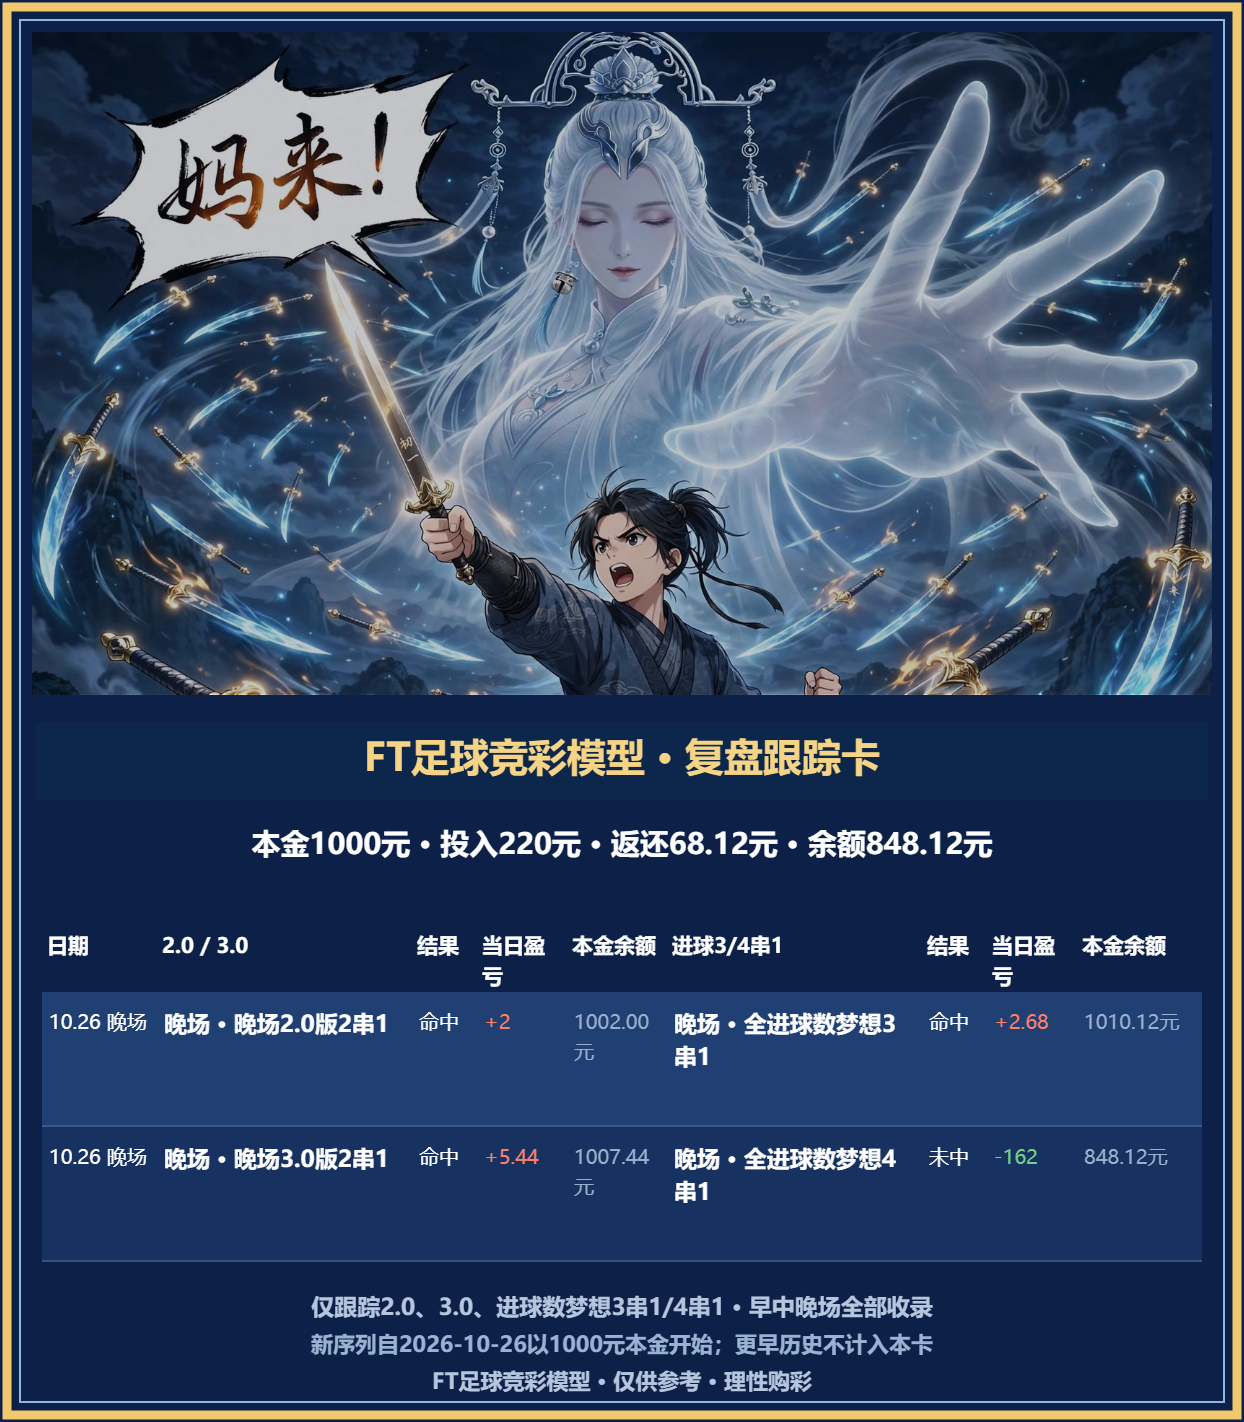
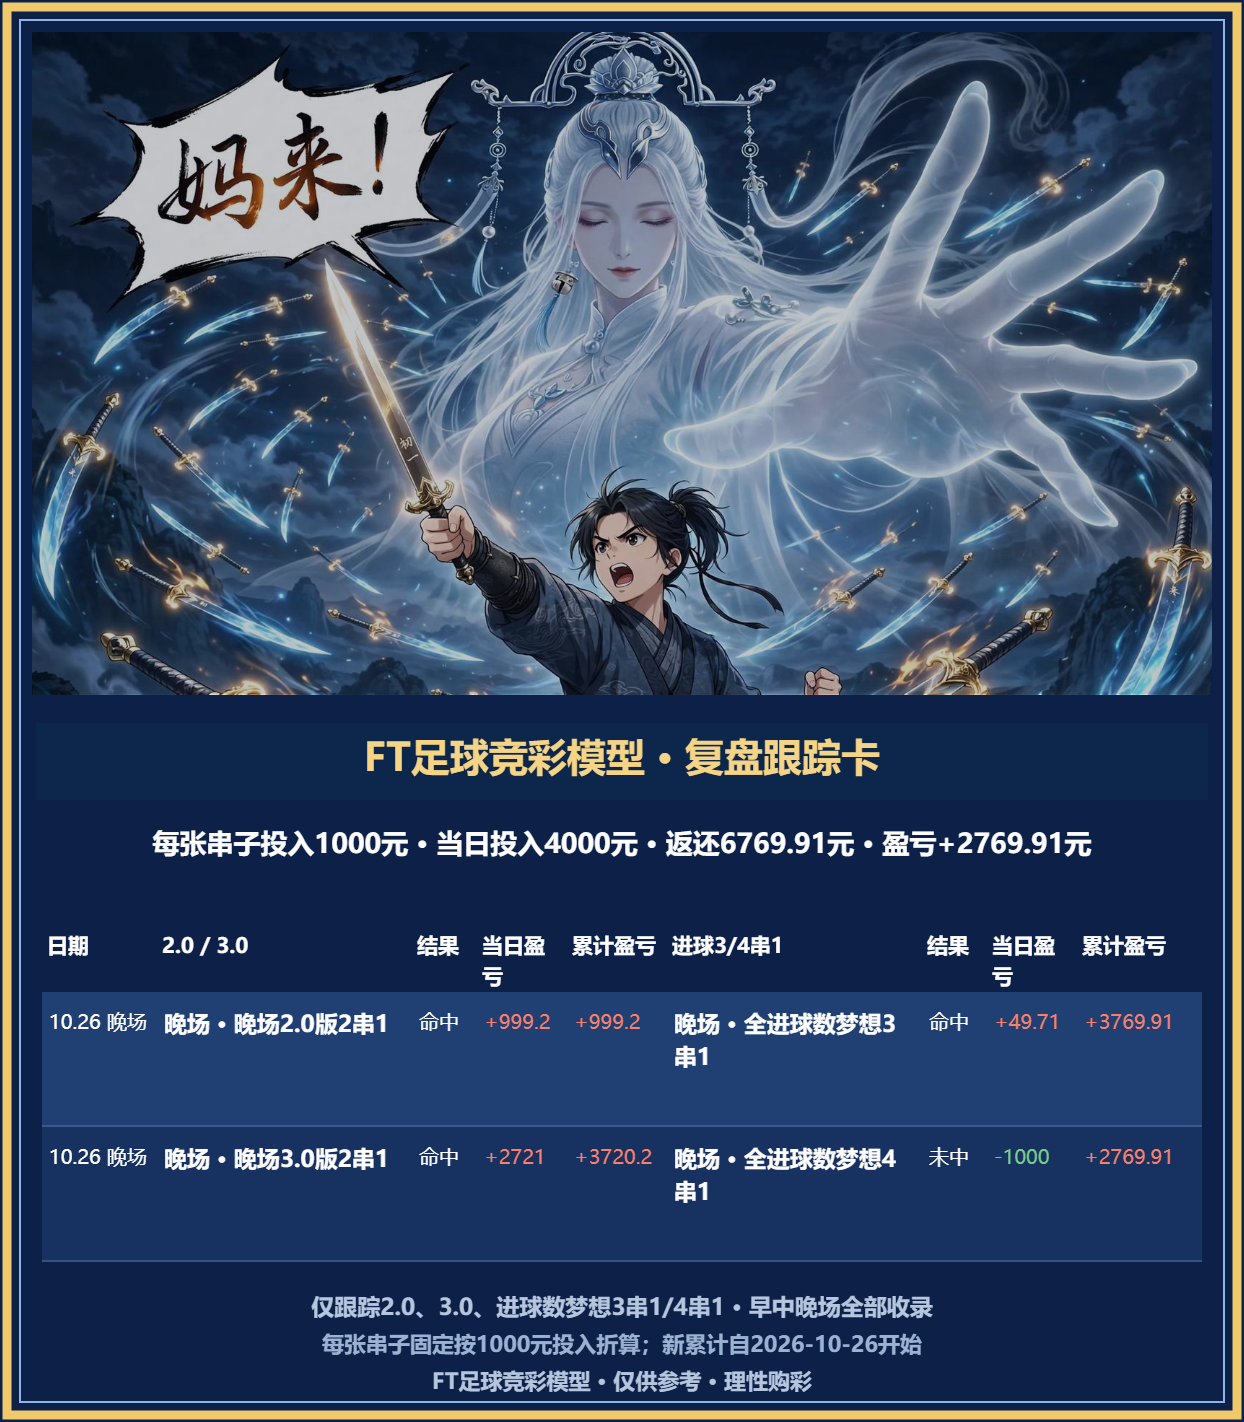
Make football monitoring cloud-first

diff --git a/public/muse-cards.js b/public/muse-cards.js
@@ -71,16 +71,17 @@
     // Keep the whole reference artwork inside the border, including its left speech bubble.
     if(asset.naturalWidth){const artX=32,artY=32,artW=cardWidth-64,artH=artW*asset.naturalHeight/asset.naturalWidth;ctx.drawImage(asset,artX,artY,artW,artH);ctx.fillStyle='rgba(7,16,32,.24)';ctx.fillRect(artX,artY,artW,artH)}
     ctx.fillStyle='rgba(14,41,77,.86)';ctx.fillRect(36,heroH-77,cardWidth-72,77);centered(ctx,TITLE+' · '+(reviewMode?'复盘跟踪卡':'今日跟踪卡'),heroH-59,39,'#f5d485');
-    const startBankroll=1000,totalCost=Number(report.ticketTotals?.cost??0),totalReturned=Number(report.ticketTotals?.returned??0),totalNet=Number(report.ticketTotals?.net??0),currentBankroll=startBankroll+(Number.isFinite(totalNet)?totalNet:0);
-    ctx.fillStyle='#0d2148';ctx.fillRect(tableX,heroH+10,tableWidth,88);centered(ctx,reviewMode?`本金1000元 · 投入${totalCost.toFixed(0)}元 · 返还${totalReturned.toFixed(2)}元 · 余额${currentBankroll.toFixed(2)}元`:'统一按1000元起始本金跟踪',heroH+32,29);
-    const widths=[115,255,65,90,100,255,65,90,125],heads=['日期','2.0 / 3.0','结果','当日盈亏','本金余额','进球3/4串1','结果','当日盈亏','本金余额'];ctx.fillStyle='#0d2148';ctx.fillRect(tableX,tableY,tableWidth,80);let x=tableX;heads.forEach((s,i)=>{text(ctx,s,x+5,tableY+25,widths[i]-8,21,'#fff',true);x+=widths[i]});
-    const balances=new Map();let running=startBankroll;order(raw).forEach(r=>{const net=Number(r.net??r.exampleNet);if(Number.isFinite(net))running+=net;balances.set(r,running)});
-    function values(r,i){if(!r)return [`${sessions[i]||'待定'} · 待定`,'待定','—','—'];const cost=Number(r.totalCost??r.cost??r.exampleStake),net=r.net??r.exampleNet;const historical=Boolean(r.date&&r.date!==report.date);const amount=(reviewMode||historical)&&Number.isFinite(cost)&&cost>0&&net!=null?Number(net):null;return [[session(r)||(!historical?sessions[Math.max(0,i-1)]:'')||'',selections(r)||r.name].filter(Boolean).join(' · '),(reviewMode||historical)?(r.status||r.result||'待定'):'待定',money(amount),balances.has(r)?`${balances.get(r).toFixed(2)}元`:'—']}
+    const scaledNet=r=>{const cost=Number(r?.totalCost??r?.cost??r?.exampleStake),returned=Number(r?.returned??r?.exampleReturn);return Number.isFinite(cost)&&cost>0&&Number.isFinite(returned)?returned/cost*1000-1000:null};
+    const settled=raw.map(scaledNet).filter(Number.isFinite),dayNet=settled.reduce((a,b)=>a+b,0),dayStake=settled.length*1000,dayReturn=dayStake+dayNet;
+    ctx.fillStyle='#0d2148';ctx.fillRect(tableX,heroH+10,tableWidth,88);centered(ctx,reviewMode?`每张串子投入1000元 · 当日投入${dayStake.toFixed(0)}元 · 返还${dayReturn.toFixed(2)}元 · 盈亏${dayNet>=0?'+':''}${dayNet.toFixed(2)}元`:'每张串子统一按1000元投入跟踪',heroH+32,27);
+    const widths=[115,255,65,90,100,255,65,90,125],heads=['日期','2.0 / 3.0','结果','当日盈亏','累计盈亏','进球3/4串1','结果','当日盈亏','累计盈亏'];ctx.fillStyle='#0d2148';ctx.fillRect(tableX,tableY,tableWidth,80);let x=tableX;heads.forEach((s,i)=>{text(ctx,s,x+5,tableY+25,widths[i]-8,21,'#fff',true);x+=widths[i]});
+    const cumulative=new Map();let running=0;order(raw).forEach(r=>{const net=scaledNet(r);if(Number.isFinite(net))running+=net;cumulative.set(r,Number.isFinite(net)?running:null)});
+    function values(r,i){if(!r)return [`${sessions[i]||'待定'} · 待定`,'待定','—','—'];const amount=scaledNet(r),historical=Boolean(r.date&&r.date!==report.date);return [[session(r)||(!historical?sessions[Math.max(0,i-1)]:'')||'',selections(r)||r.name].filter(Boolean).join(' · '),(reviewMode||historical)?(r.status||r.result||'待定'):'待定',money(amount),cumulative.get(r)==null?'—':money(cumulative.get(r))]}
     for(let i=0;i<count;i++){const y=tableY+80+i*135;ctx.fillStyle=i%2?'#173260':'#203f73';ctx.fillRect(tableX,y,tableWidth,135);const rowDate=(left[i]?.date||right[i]?.date||report.date||'').slice(5).replace('-','.');const rowSession=session(left[i])||session(right[i])||sessions[Math.max(0,i-Math.max(left.length,right.length)+3)]||'';const data=[`${rowDate}${rowSession?' '+rowSession:''}`,...values(left[i],i),...values(right[i],i)];x=tableX;data.forEach((s,j)=>{const c=[3,4,7,8].includes(j)?(String(s).startsWith('+')?'#fa806b':String(s).startsWith('-')?'#76ce8b':'#9aafcc'):'#fff';text(ctx,s,x+7,y+22,widths[j]-14,j===1||j===5?23:20,c,j===1||j===5);x+=widths[j]});ctx.strokeStyle='#58729c';ctx.beginPath();ctx.moveTo(tableX,y+134);ctx.lineTo(tableX+tableWidth,y+134);ctx.stroke()}
-    centered(ctx,(!reviewMode&&report.finalLocked&&!raw.length?'今日四类票均不出 · 投入0元 · 返还0元':'仅跟踪2.0、3.0、进球数梦想3串1/4串1 · 早中晚场全部收录'),height-125,23,'#b5c6de');centered(ctx,'新序列自2026-10-26以1000元本金开始；更早历史不计入本卡',height-87,22,'#9bb3d2');centered(ctx,TITLE+' · 仅供参考 · 理性购彩',height-50,22,'#b5c6de');edge(ctx,height);return png(canvas);
+    centered(ctx,(!reviewMode&&report.finalLocked&&!raw.length?'今日四类票均不出 · 投入0元 · 返还0元':'仅跟踪2.0、3.0、进球数梦想3串1/4串1 · 早中晚场全部收录'),height-125,23,'#b5c6de');centered(ctx,'每张串子固定按1000元投入折算；新累计自2026-10-26开始',height-87,22,'#9bb3d2');centered(ctx,TITLE+' · 仅供参考 · 理性购彩',height-50,22,'#b5c6de');edge(ctx,height);return png(canvas);
   }
   const publishedReview=async kind=>{try{const response=await fetch(`cards/${currentReview?.date}-review-${kind}.png?v=${Date.now()}`,{cache:'no-store'});if(response.ok)return response.blob()}catch{}return kind==='scan'?poster(true):tracking(true)};
-  scanImageBlob=()=>poster(false);reviewImageBlob=()=>publishedReview('scan');trackingImageBlob=reviewMode=>reviewMode?publishedReview('tracking'):tracking(false);
+  scanImageBlob=()=>poster(false);reviewImageBlob=()=>publishedReview('scan');trackingImageBlob=tracking;
   let timer;const cache=new Map(),signatures=new Map();
   function schedule(){clearTimeout(timer);timer=setTimeout(refreshPreviews,500)}
   async function refreshPreviews(){
